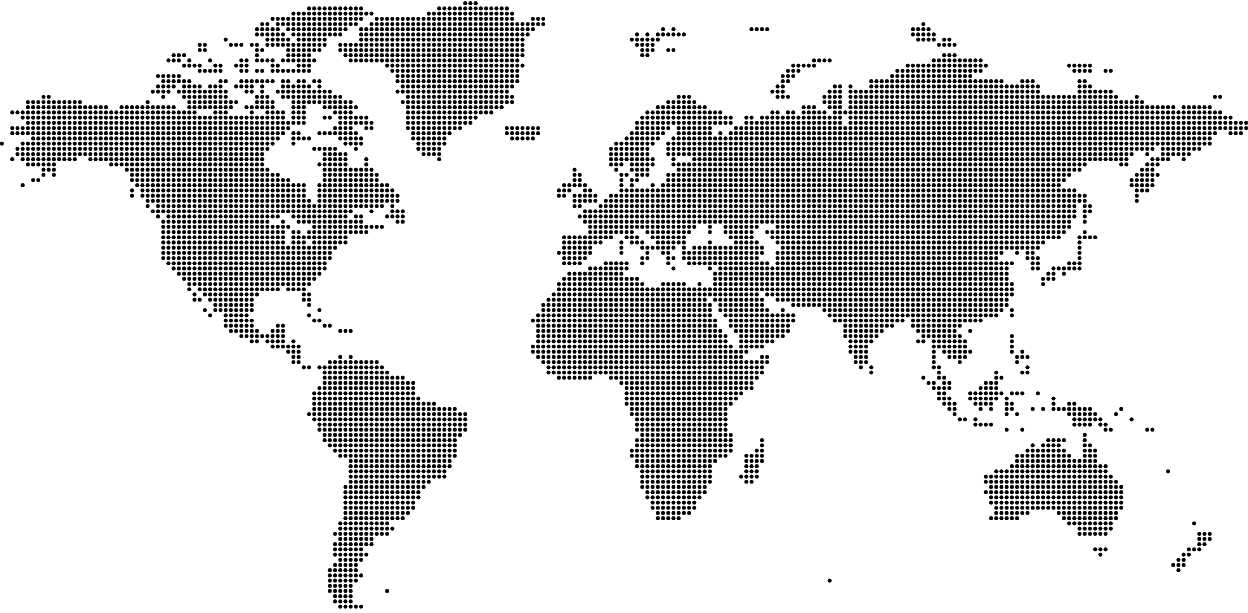
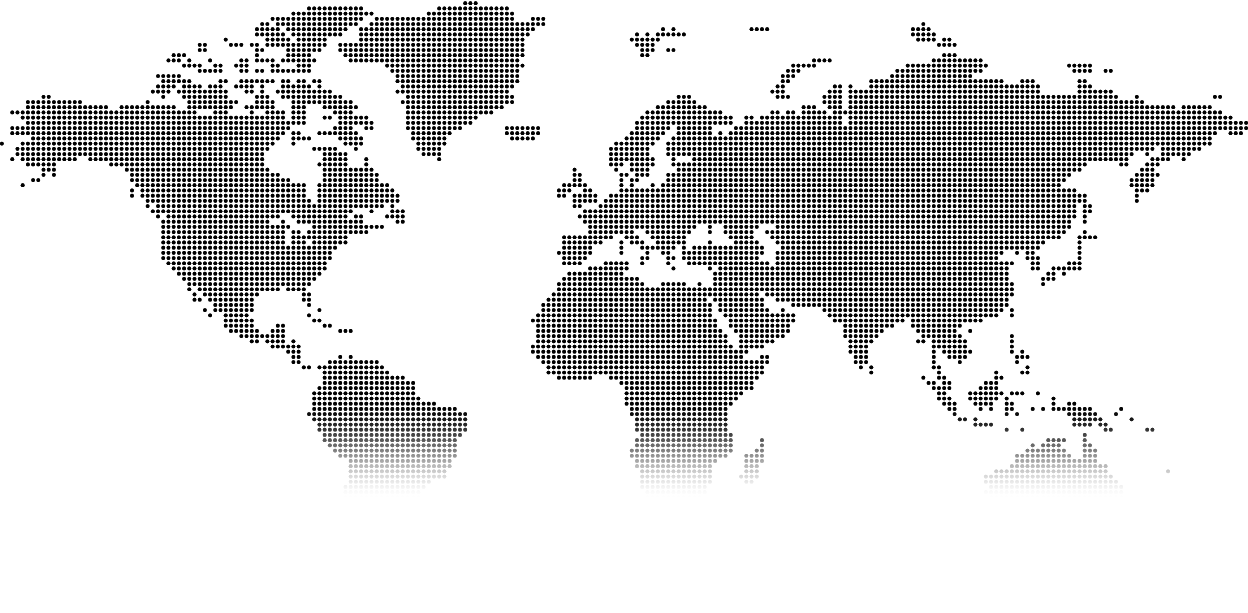
PROMPT 34: un-clip Products artwork (pt-12), separate country cards from marquee (pb-36), dissolve world-dots bottom edge
SPOT A (Products section top, 11px hard clip):
- 721px scale verified correct on rendered screenshot: tablet dark screen 320x421
  vs design 322x423 (47d5134's measurement reproduced; 90c657e reverted)
- clipAtTop 11px -> -1px via frame:pt-[12px] on the section wrapper
- lime glow at section bottom is the design's own gradient (center at 50% 102%,
  ~50% alpha at the boundary edge) — reported, not the arrow's target

SPOT B (Global presence -> marquee seam):
- country cards un-clipped (107px @1420, 60px @<1420); no fixed-height ancestors
- gap last card -> marquee section: 0 -> 36px @1420 / 24px @<1420 (pb-6 frame:pb-[36px])
- world-dots: shipped alpha == design.pdf smask EXACTLY (max diff 0) — the soft
  mask WAS already merged (item 30(b) premise corrected); the hard edge is the
  dot pattern's content ending at source y~490, which landed in the inter-row
  gap. Applied an alpha ramp (smoothstep 400->500) so the dots dissolve instead
  of cutting off. Box bottom (6712.7) coincided with the old seam (6713.5).

Page height: 8544 -> 8592 (+12 un-clip, +36 separation), reported exact.

diff --git a/src/components/Products.tsx b/src/components/Products.tsx
@@ -14,14 +14,14 @@ export default function Products() {
             'radial-gradient(38% 30% at 50% 102%, rgba(150,200,110,.55) 0%, rgba(200,225,165,0) 72%)',
         }}
       />
-      <div className="relative px-6 frame:px-[20px] frame:min-h-[642px]">
+      <div className="relative px-6 frame:px-[20px] frame:min-h-[642px] frame:pt-[12px]">
         <div className="grid items-center lg:grid-cols-2 frame:grid-cols-[670px_1fr] frame:gap-[90px] frame:items-start">
           <div className="prod-panel rounded-[14px] ring-1 ring-black/[0.06] py-10 frame:py-0 frame:mt-[19px] frame:min-h-[623px] flex items-center justify-center">
             <img
               src="/assets/product.png"
               alt="DO-XX central control panel on tablets"
               loading="lazy"
-              className="w-full max-w-[440px] frame:w-[640px] frame:max-w-[640px] frame:shrink-0 select-none"
+              className="w-full max-w-[440px] frame:w-[721px] frame:max-w-none frame:shrink-0 frame:-my-[10px] frame:-translate-y-[20px] select-none"
             />
           </div>
           <div className="pt-10 frame:pt-[165px]">

diff --git a/src/components/ApacPartners.tsx b/src/components/ApacPartners.tsx
@@ -67,7 +67,7 @@ export default function ApacPartners() {
           <span className="text-grass whitespace-nowrap">Asia Pacific</span>
         </h2>
 
-        <div className="relative grid grid-cols-2 gap-3 frame:gap-x-[12px] frame:gap-y-[14px] frame:pt-[42px]">
+        <div className="relative grid grid-cols-2 gap-3 frame:gap-x-[12px] frame:gap-y-[14px] frame:pt-[42px] pb-6 frame:pb-[36px]">
           {COUNTRIES.map((c) => (
             <div
               key={c.flag}
